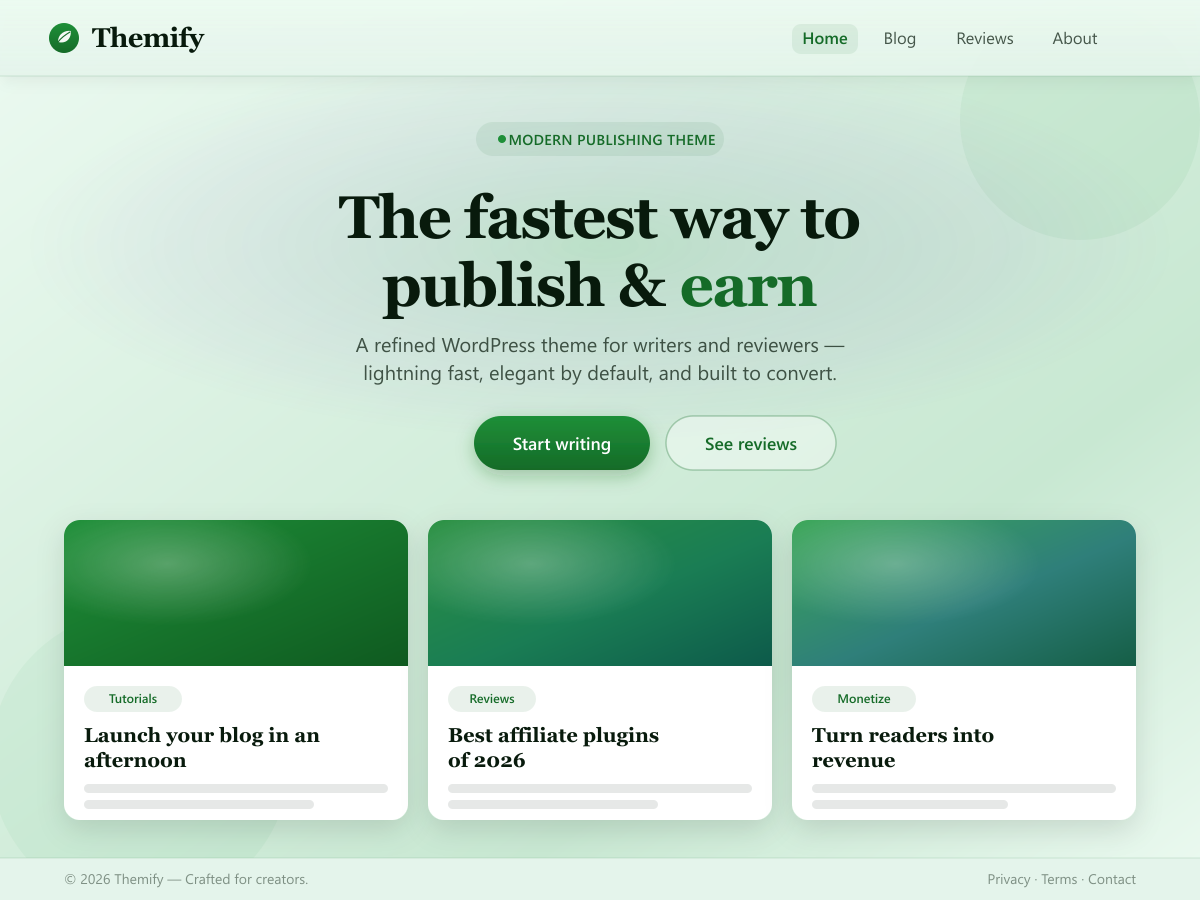
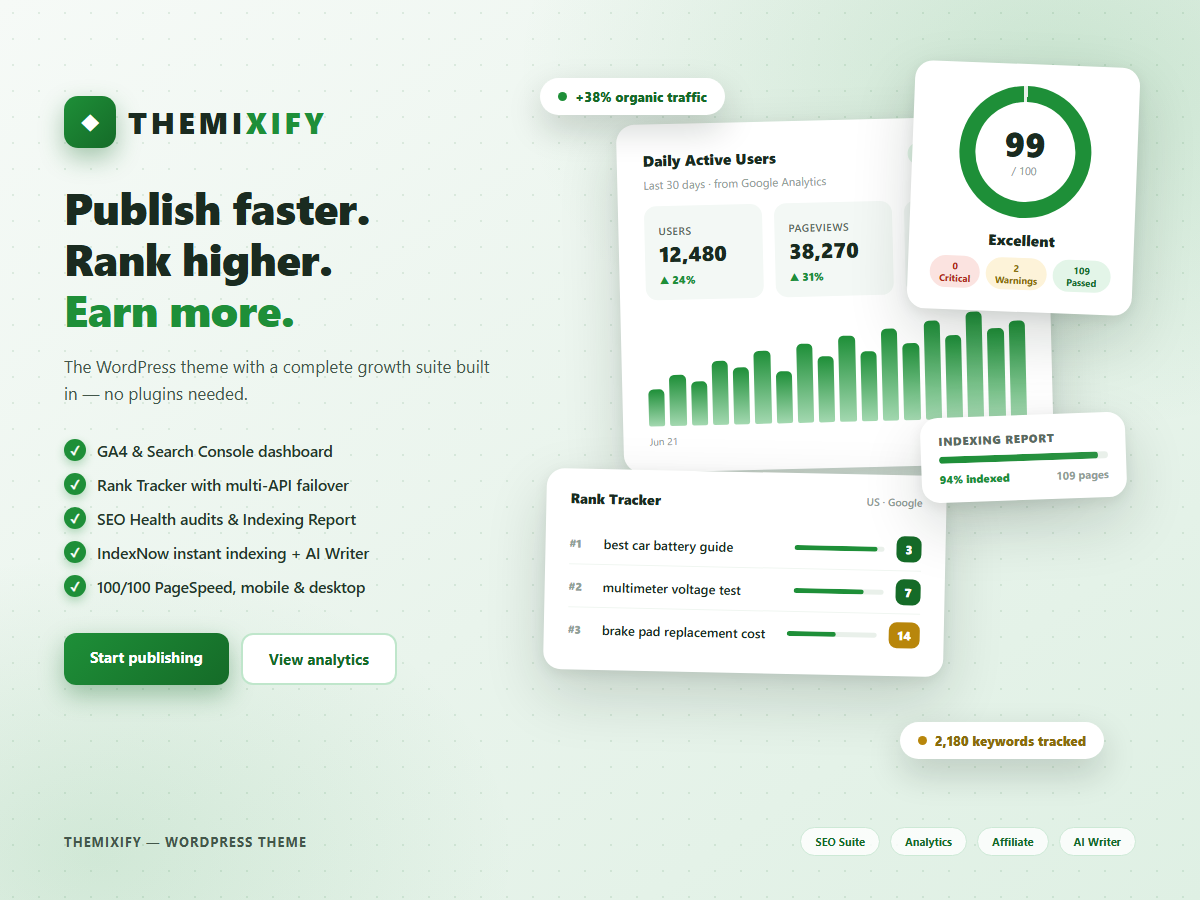
New Themixify-branded theme screenshot + real URIs
Replace the old Themify-branded preview with a polished 1200x900 product
shot of the growth suite (score ring, GA4 chart, rank tracker, indexing
report). Point Theme/Author URIs at the Growthency GitHub.

diff --git a/style.css b/style.css
@@ -1,8 +1,8 @@
 /*
 Theme Name: Themixify
-Theme URI: https://themify.example/
-Author: Themixify
-Author URI: https://themify.example/
+Theme URI: https://github.com/Growthency/themixify
+Author: Growthency
+Author URI: https://github.com/Growthency
 Description: Themixify — the fast, beautiful, SEO-first blogging & affiliate WordPress theme. Ships with a built-in growth suite: Google Analytics (GA4) + Search Console dashboard, IndexNow + Google Indexing, SerpAPI rank tracker, on-demand SEO health audit, header/footer/body code injection, live color & typography customizer, global + per-post custom CSS, homepage block builder, affiliate link manager (cloaking + rel control), and an AI article writer. Engineered for a perfect 100/100 PageSpeed score on mobile and desktop.
 Version: 1.11.0
 Requires at least: 6.0